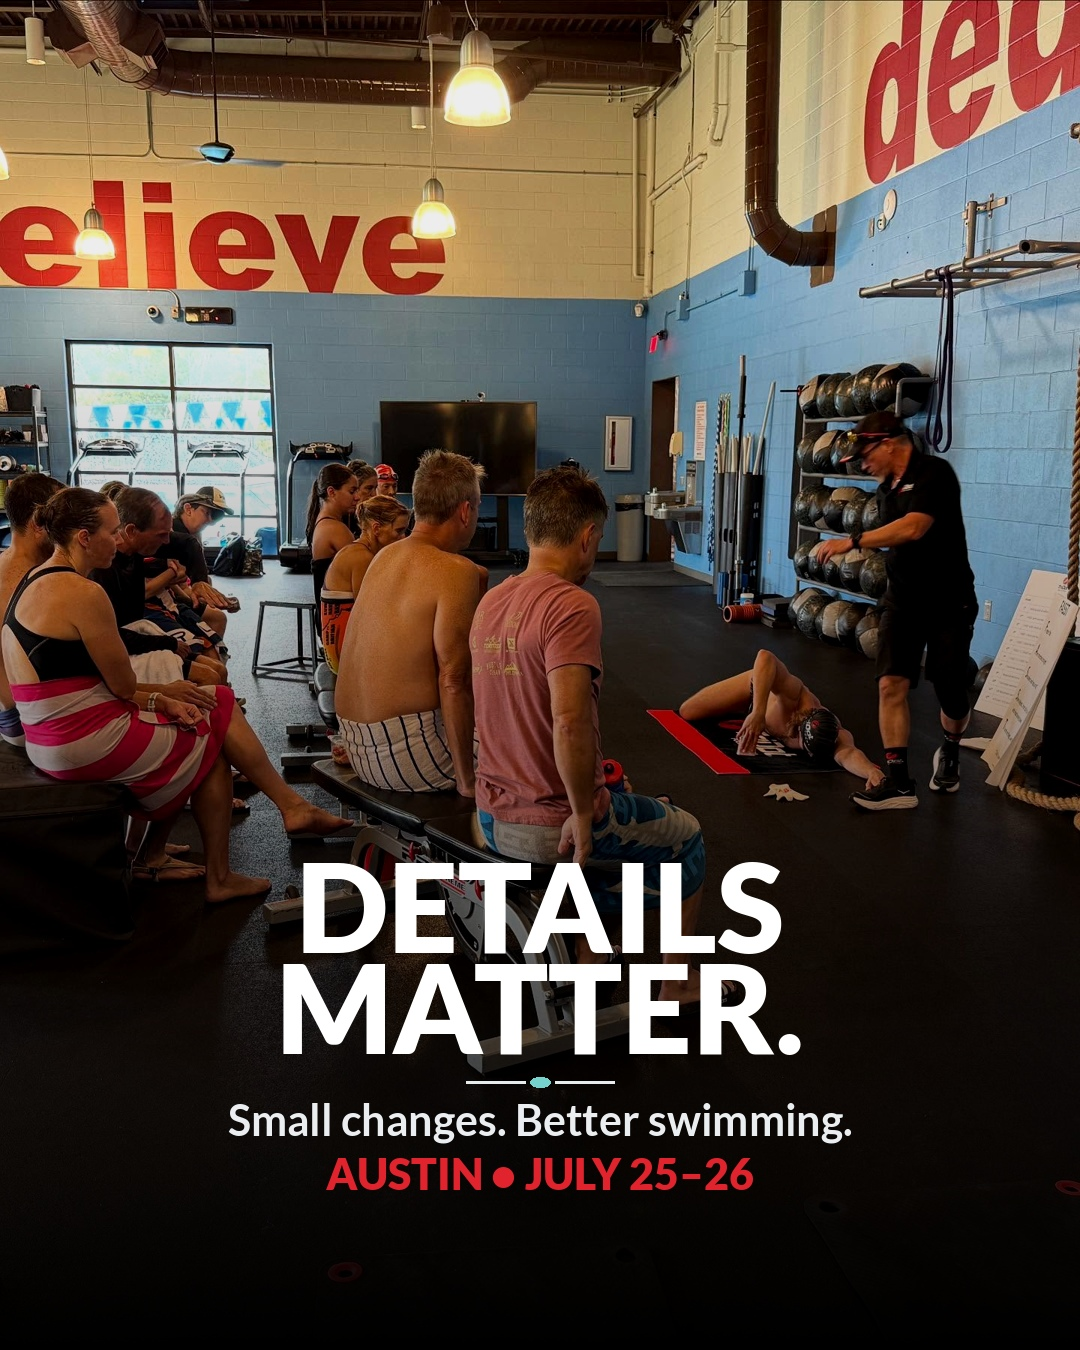
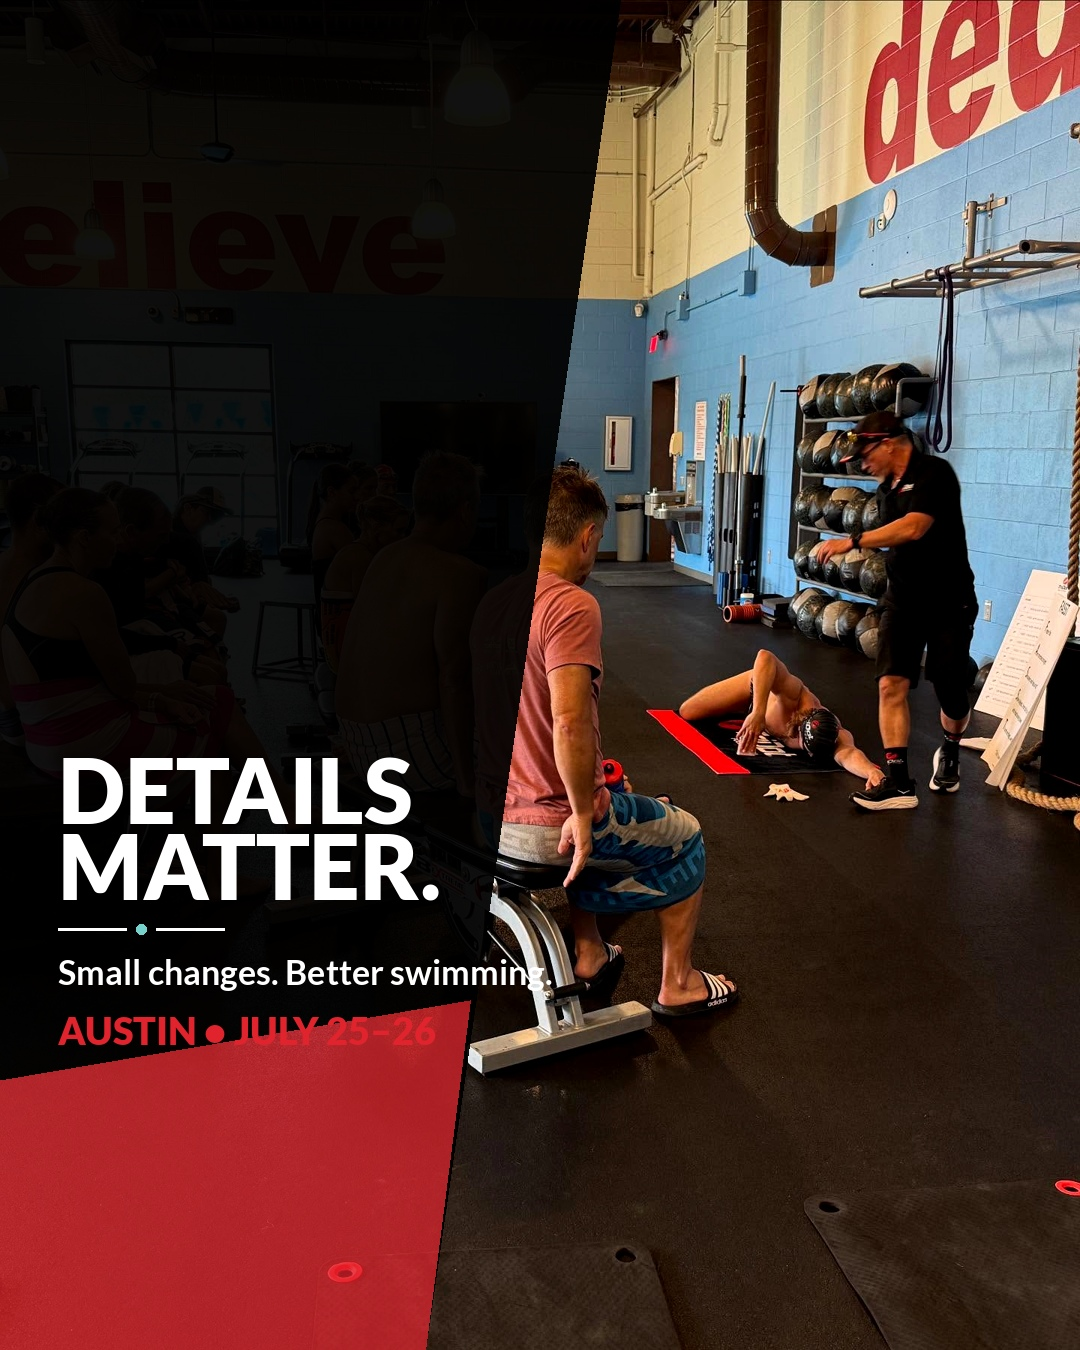
Apply San Diego-inspired Austin Pool School design

diff --git a/austin-pool-school-review/index.html b/austin-pool-school-review/index.html
@@ -15,5 +15,5 @@ const posts=[
 ['08-detail-matters.jpg','VALUE','The details make the difference','Small technique changes can lead to meaningful progress. Get focused coaching and drills designed to help you apply it back in your own training.'],
 ['09-personal-feedback.jpg','VALUE','Real-time feedback','See it. Understand it. Practice it. Bring your swim questions to Austin and leave with practical tools for your next session.'],
 ['10-austin-register-now.jpg','EVENT PROMO','Austin Pool School: Register now','July 25–26, 2026 · Austin Aquatics and Sports Academy · $599\n\nYour next opportunity to break out of the dreaded swim plateau starts here. Register now.']
-];let i=0;const $=id=>document.getElementById(id);function render(){let p=posts[i];$('title').textContent=`Post ${i+1} of ${posts.length}`;$('graphic').src='./assets/'+p[0]+'?v=clean-type-red-20260710';$('headline').textContent=p[2];$('caption').textContent=p[3];$('type').textContent=p[1];$('prev').disabled=i===0;$('next').disabled=i===posts.length-1;$('thumbs').innerHTML=posts.map((x,n)=>`<button class="thumb ${n===i?'active':''}" aria-label="View post ${n+1}" onclick="go(${n})"><img src="./assets/${x[0]}?v=clean-type-red-20260710"></button>`).join('')};function go(n){i=n;render()}$('prev').onclick=()=>go(i-1);$('next').onclick=()=>go(i+1);document.addEventListener('keydown',e=>{if(e.key==='ArrowLeft'&&i)go(i-1);if(e.key==='ArrowRight'&&i<posts.length-1)go(i+1)});render();
+];let i=0;const $=id=>document.getElementById(id);function render(){let p=posts[i];$('title').textContent=`Post ${i+1} of ${posts.length}`;$('graphic').src='./assets/'+p[0]+'?v=sandiego-inspired-20260710';$('headline').textContent=p[2];$('caption').textContent=p[3];$('type').textContent=p[1];$('prev').disabled=i===0;$('next').disabled=i===posts.length-1;$('thumbs').innerHTML=posts.map((x,n)=>`<button class="thumb ${n===i?'active':''}" aria-label="View post ${n+1}" onclick="go(${n})"><img src="./assets/${x[0]}?v=sandiego-inspired-20260710"></button>`).join('')};function go(n){i=n;render()}$('prev').onclick=()=>go(i-1);$('next').onclick=()=>go(i+1);document.addEventListener('keydown',e=>{if(e.key==='ArrowLeft'&&i)go(i-1);if(e.key==='ArrowRight'&&i<posts.length-1)go(i+1)});render();
 </script></body></html>
